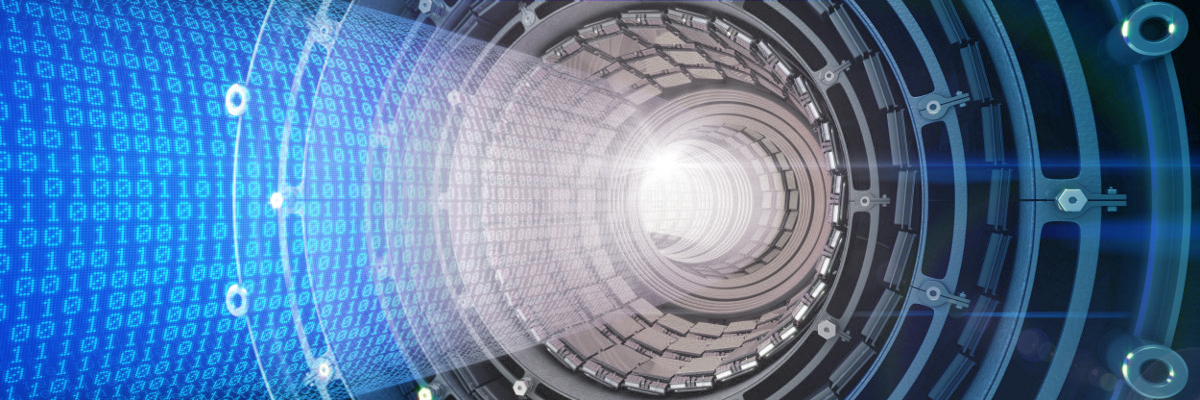
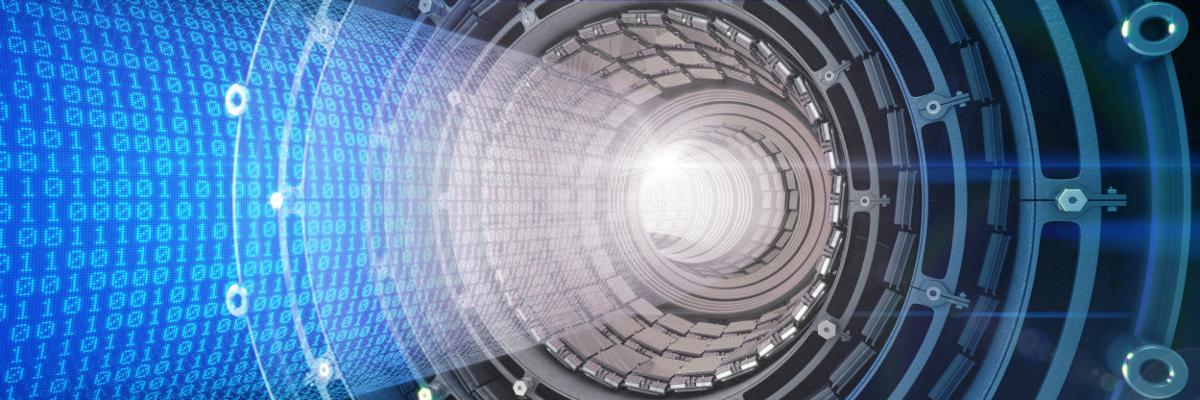
BTD ONLY: Optimize images

diff --git a/client/src/components/Header.tsx b/client/src/components/Header.tsx
@@ -23,7 +23,11 @@ export const Header = () => {
       <Box className={classes.container}>
         <Box padding={1} flex="1">
           <a target="_blank" href="https://bigtechday.com" rel="noopener noreferrer">
-            <img alt="TNG Logo" width="300" src="/images/tng.png" />
+            <picture>
+              <source srcSet="/images/tng.webp" type="image/webp" />
+              <source srcSet="/images/tng.png" type="image/jpeg" />
+              <img src="/images/tng.png" alt="TNG Logo" width={300} />
+            </picture>
           </a>
         </Box>
         <Box display="flex" flexDirection="column" alignItems="center">
@@ -35,7 +39,11 @@ export const Header = () => {
         <Box flex="1" />
       </Box>
       <Box display="flex" justifyContent="center" marginTop={2}>
-        <img alt="Super Collider" width="100%" src="/images/BTD7_SuperCollider.jpg" />
+        <picture>
+          <source srcSet="/images/BTD7_SuperCollider.webp" type="image/webp" />
+          <source srcSet="/images/BTD7_SuperCollider.jpg" type="image/jpeg" />
+          <img src="/images/BTD7_SuperCollider.jpg" alt="Super Collider" width="100%" />
+        </picture>
       </Box>
     </Box>
   );
